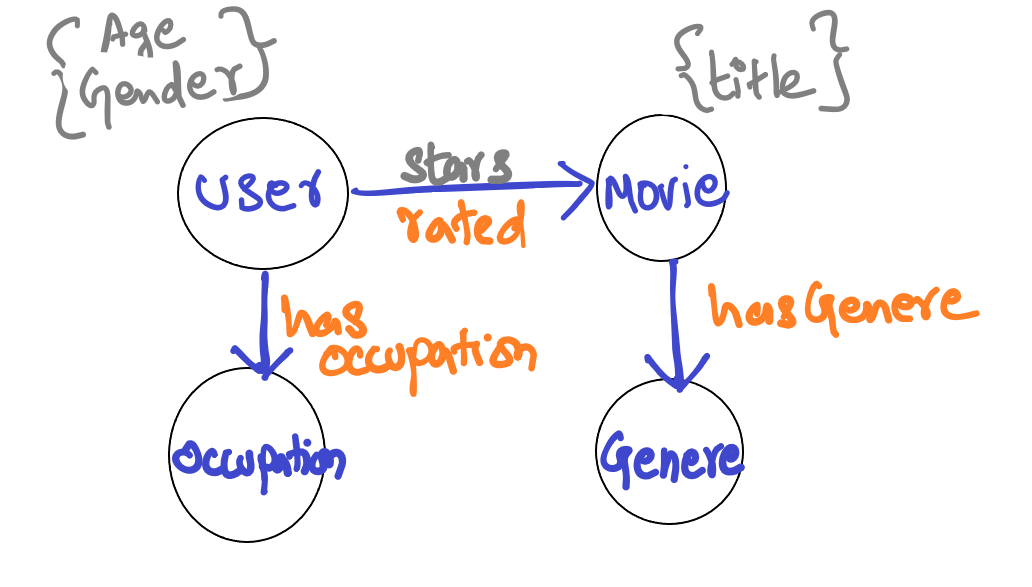
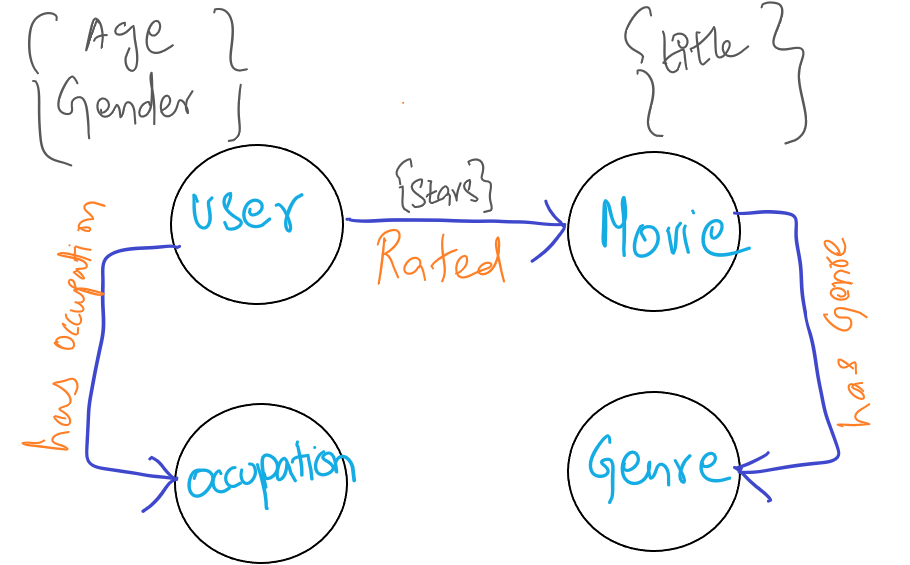
Updated with new Graph and readme

diff --git a/readme.md b/readme.md
@@ -8,88 +8,30 @@ Using this Node JS programm, you will be able to upload about 3900 movie details
 Up on successfully running this program, you will be able to generate graph structure as shown below
 ![Graph Structure](https://github.com/binduchinnasamy/cosmos-graph-movie-rating/blob/master/graph-structure.png)
 
-##  Rating File Description
-All ratings are contained in the file "ratingssubset.dat" and are in the
-following format:
+##  Input Files
+
+**Rating File**
+
+All ratings are contained in the file "ratingssubset.dat" and are in the following format:
 
 UserID::MovieID::Rating::Timestamp
 
-- UserIDs range between 1 and 2000 
-- MovieIDs range between 1 and 3952
-- Ratings are made on a 5-star scale (whole-star ratings only)
-- Timestamp is represented in seconds since the epoch as returned by time(2)
-- Each user has at least 20 ratings
+**User File**
 
-##  User File Description
-
-User information is in the file "userssubset.dat" and is in the following
-format:
+User information is in the file "userssubset.dat" and is in the following format:
 
 UserID::Gender::Age::Occupation::Zip-code
 
-- Gender is denoted by a "M" for male and "F" for female
-- Age is chosen from the following ranges:
+**Occupation**
+- OUser information is in the file "occupation.dat". For clarity purpose, When uploading the occupation to Graph DB, Occupation ID is prefixed with 'o'.
 
-	*  1:  "Under 18"
-	* 18:  "18-24"
-	* 25:  "25-34"
-	* 35:  "35-44"
-	* 45:  "45-49"
-	* 50:  "50-55"
-	* 56:  "56+"
-
-- Occupation is chosen from the following choices:
-
-	*  0:  "other" or not specified
-	*  1:  "academic/educator"
-	*  2:  "artist"
-	*  3:  "clerical/admin"
-	*  4:  "college/grad student"
-	*  5:  "customer service"
-	*  6:  "doctor/health care"
-	*  7:  "executive/managerial"
-	*  8:  "farmer"
-	*  9:  "homemaker"
-	* 10:  "K-12 student"
-	* 11:  "lawyer"
-	* 12:  "programmer"
-	* 13:  "retired"
-	* 14:  "sales/marketing"
-	* 15:  "scientist"
-	* 16:  "self-employed"
-	* 17:  "technician/engineer"
-	* 18:  "tradesman/craftsman"
-	* 19:  "unemployed"
-	* 20:  "writer"
-
-## Movie file description
+**Movie**
 
 Movie information is in the file "movies.dat" and is in the following
 format:
 
 MovieID::Title::Genres
-
-- Titles are identical to titles provided by the IMDB 
-- Genres are pipe-separated and are selected from the following genres:
-
-	* Action
-	* Adventure
-	* Animation
-	* Children's
-	* Comedy
-	* Crime
-	* Documentary
-	* Drama
-	* Fantasy
-	* Film-Noir
-	* Horror
-	* Musical
-	* Mystery
-	* Romance
-	* Sci-Fi
-	* Thriller
-	* War
-	* Western 
+- Genres are pipe-separated
 
 ## Steps to run the programm to create Graph Vertex and Edges in Azure Graph DB
 
@@ -136,13 +78,8 @@ What is the average rating movie “Toy Story” received? | :> g.V().hasLabel('
 List the users who are more than 40 years old and rated movie “Toy Story”? | :> g.V().hasLabel('movie').has('title','Toy Story ').inE('rated').outV().has('age',gt(40))
 Which user gave “Toy Story “ more than 3 stars | :> g.V().hasLabel('movie').has('title','Toy Story ').inE('rated').has('stars',gt(3)).outV())
 Which user gave “Toy Story” more than 4 starts and what other movies did they give more than 4 stars to? | :> g.V().hasLabel('movie').has('title','Toy Story ').inE('rated').has('stars',gt(3)).outV().outE('rated').has('stars',gt(3)).inV().properties('title').value()
-The above query might return many duplicate values, this is due to the fact that user who liked “Toy Story “ also liked many other movies, the dedup() step in this query filters out the duplicates.
-
-Given that there are 17933 highly rated paths from Toy Story to other movies and only 1961 of those movies are unique, it is possible to use these duplicates as a ranking mechanism–ultimately, a recommendation
+The above query might return many duplicate values, this is due to the fact that user who liked “Toy Story “ also liked many other movies, the dedup() step in this query filters out the duplicates.Given that there are 17933 highly rated paths from Toy Story to other movies and only 1961 of those movies are unique, it is possible to use these duplicates as a ranking mechanism–ultimately, a recommendation
  | :> g.V().hasLabel('movie').has('title','Toy Story ').inE('rated').has('stars',gt(4)).outV().outE('rated').has('stars',gt(4)).inV().properties('title').value().dedup()
-========================= Ref===============
-gremlin> :> g.V().hasLabel('movie').has('title','Toy Story ').inE('rated').has('stars',gt(4)).outV().outE('rated').has('stars',gt(4)).inV().properties('title').value().count()
-==>17933
-gremlin> :> g.V().hasLabel('movie').has('title','Toy Story ').inE('rated').has('stars',gt(4)).outV().outE('rated').has('stars',gt(4)).inV().properties('title').value().dedup().count()
-==>1961
-gremlin>
+Which movies are most highly co-rated with Toy Story? | :> g.V().hasLabel('movie').has('title','Toy Story ').inE('rated').has('stars',gt(4)).outV().outE('rated').has('stars',gt(4)).inV().groupCount().by('title')
+Which movies are most highly co-rated with Toy Story? | :> g.V().hasLabel('movie').has('title','Toy Story ').inE('rated').has('stars',gt(4)).outV().outE('rated').has('stars',gt(4)).inV().groupCount().by('title')
+Movies that are genre “Comedy”  and highly co-rated with “Toy Story”? | :> g.V().hasLabel('movie').has('title','Toy Story ').as('x').inE('rated').has('stars',gt(4)).outV().outE('rated').has('stars',gt(4)).inV().dedup().as('y').outE('hasGenere').inV().has('id','Comedy').select('y').by('title')
